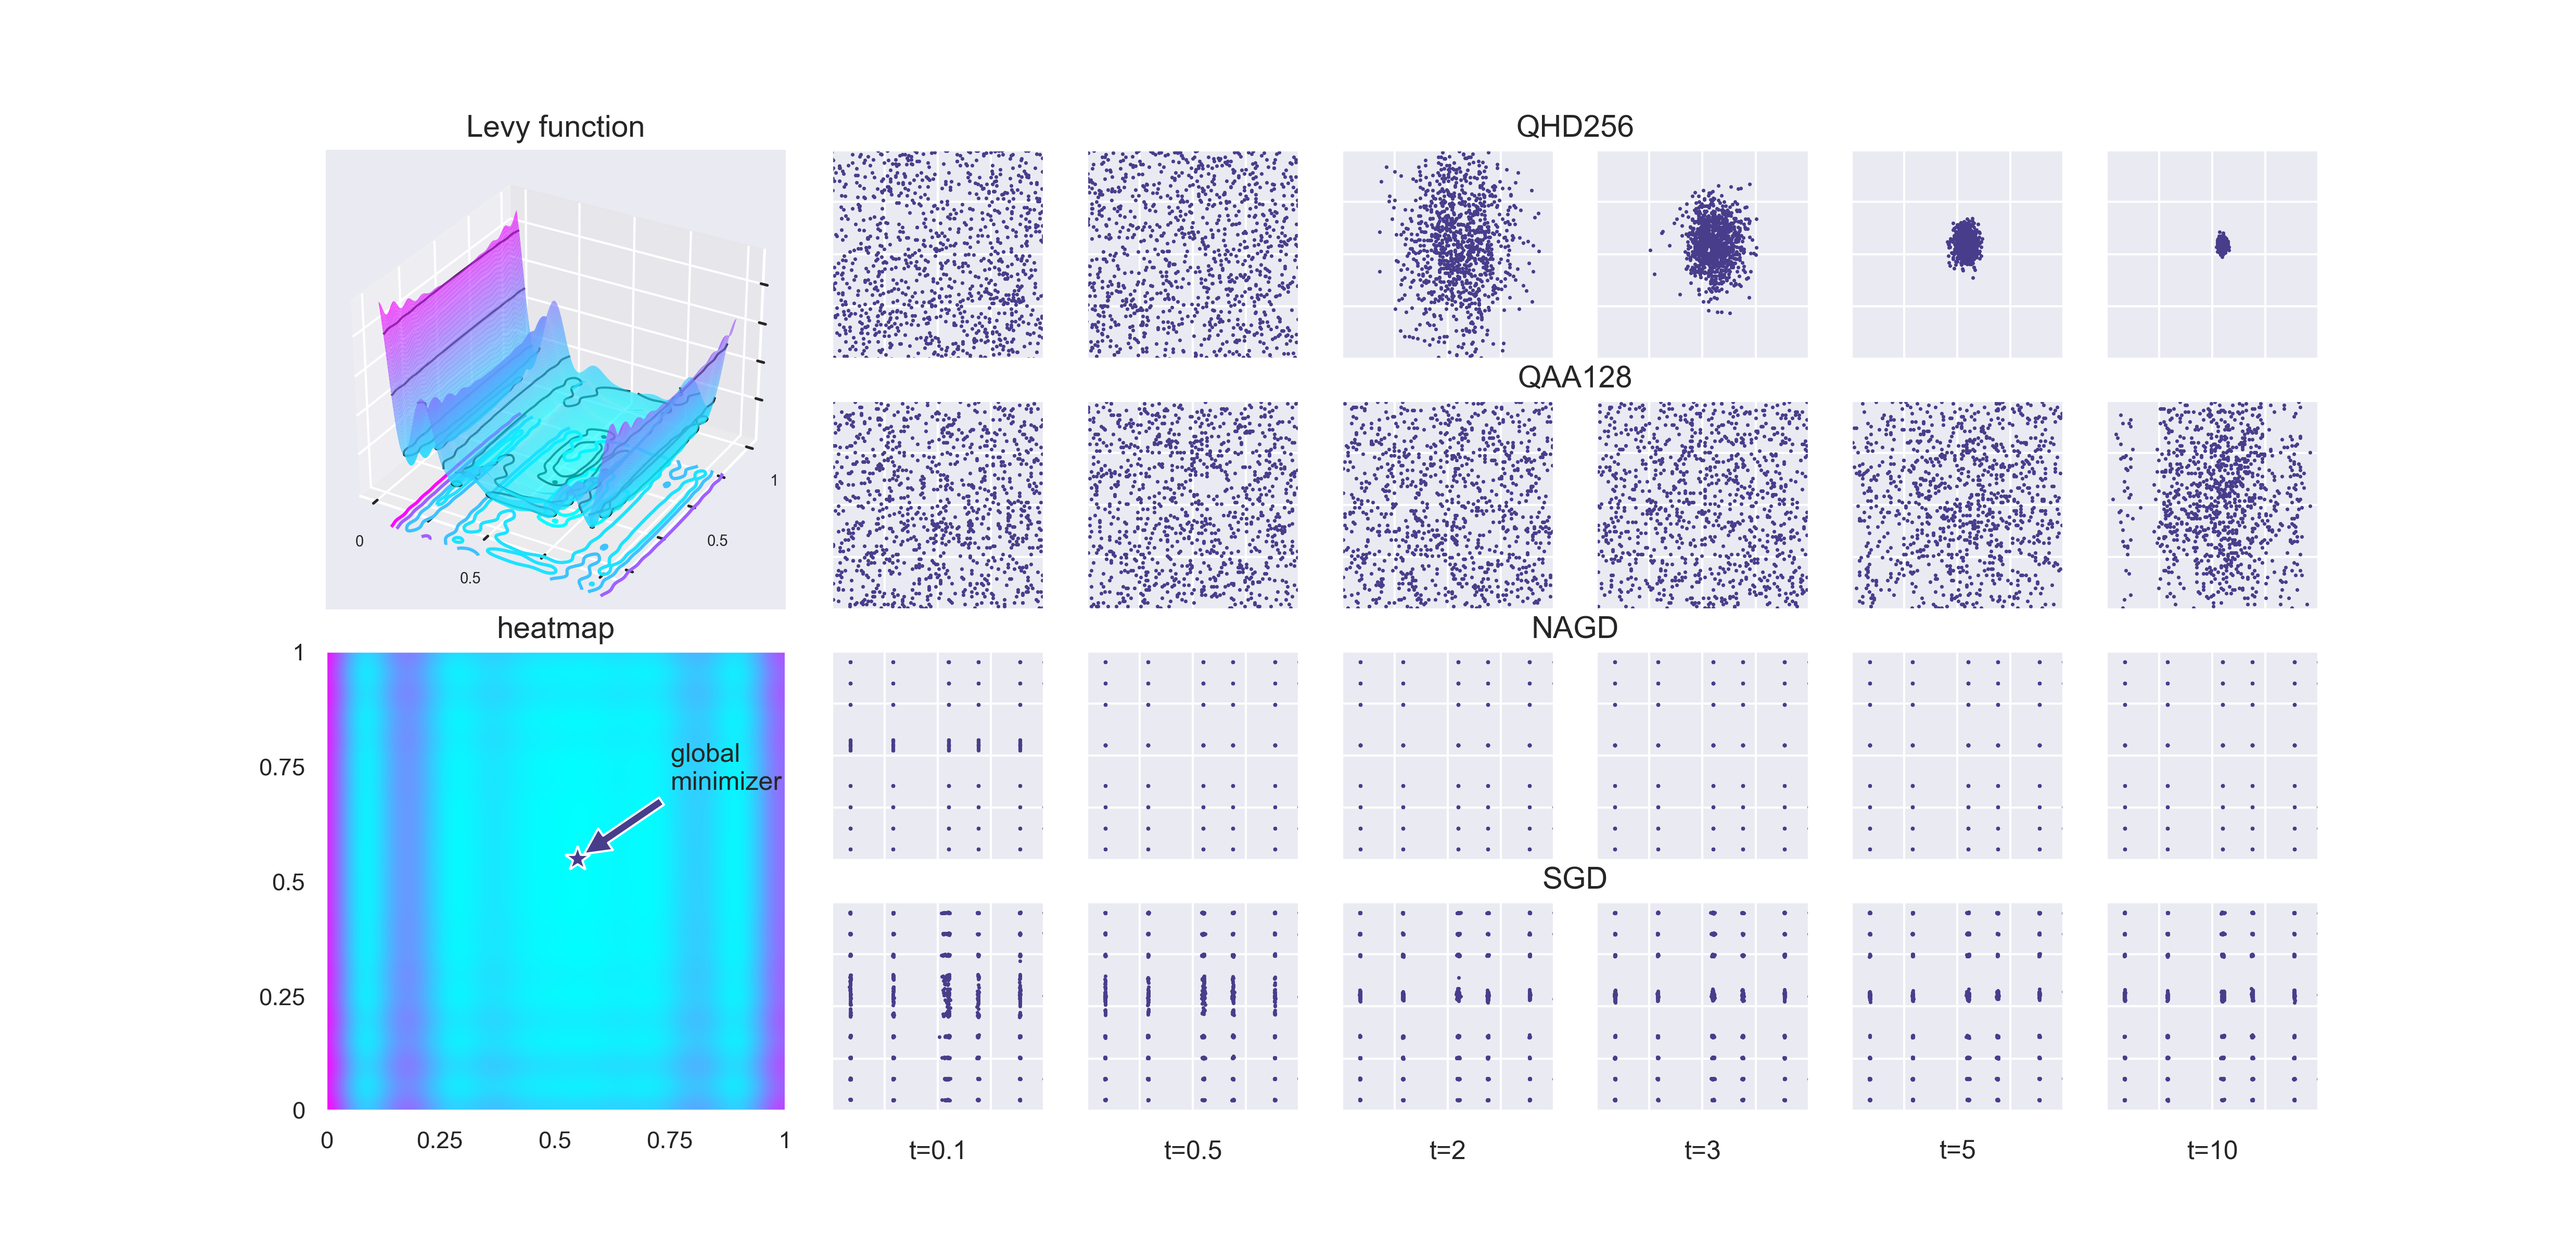
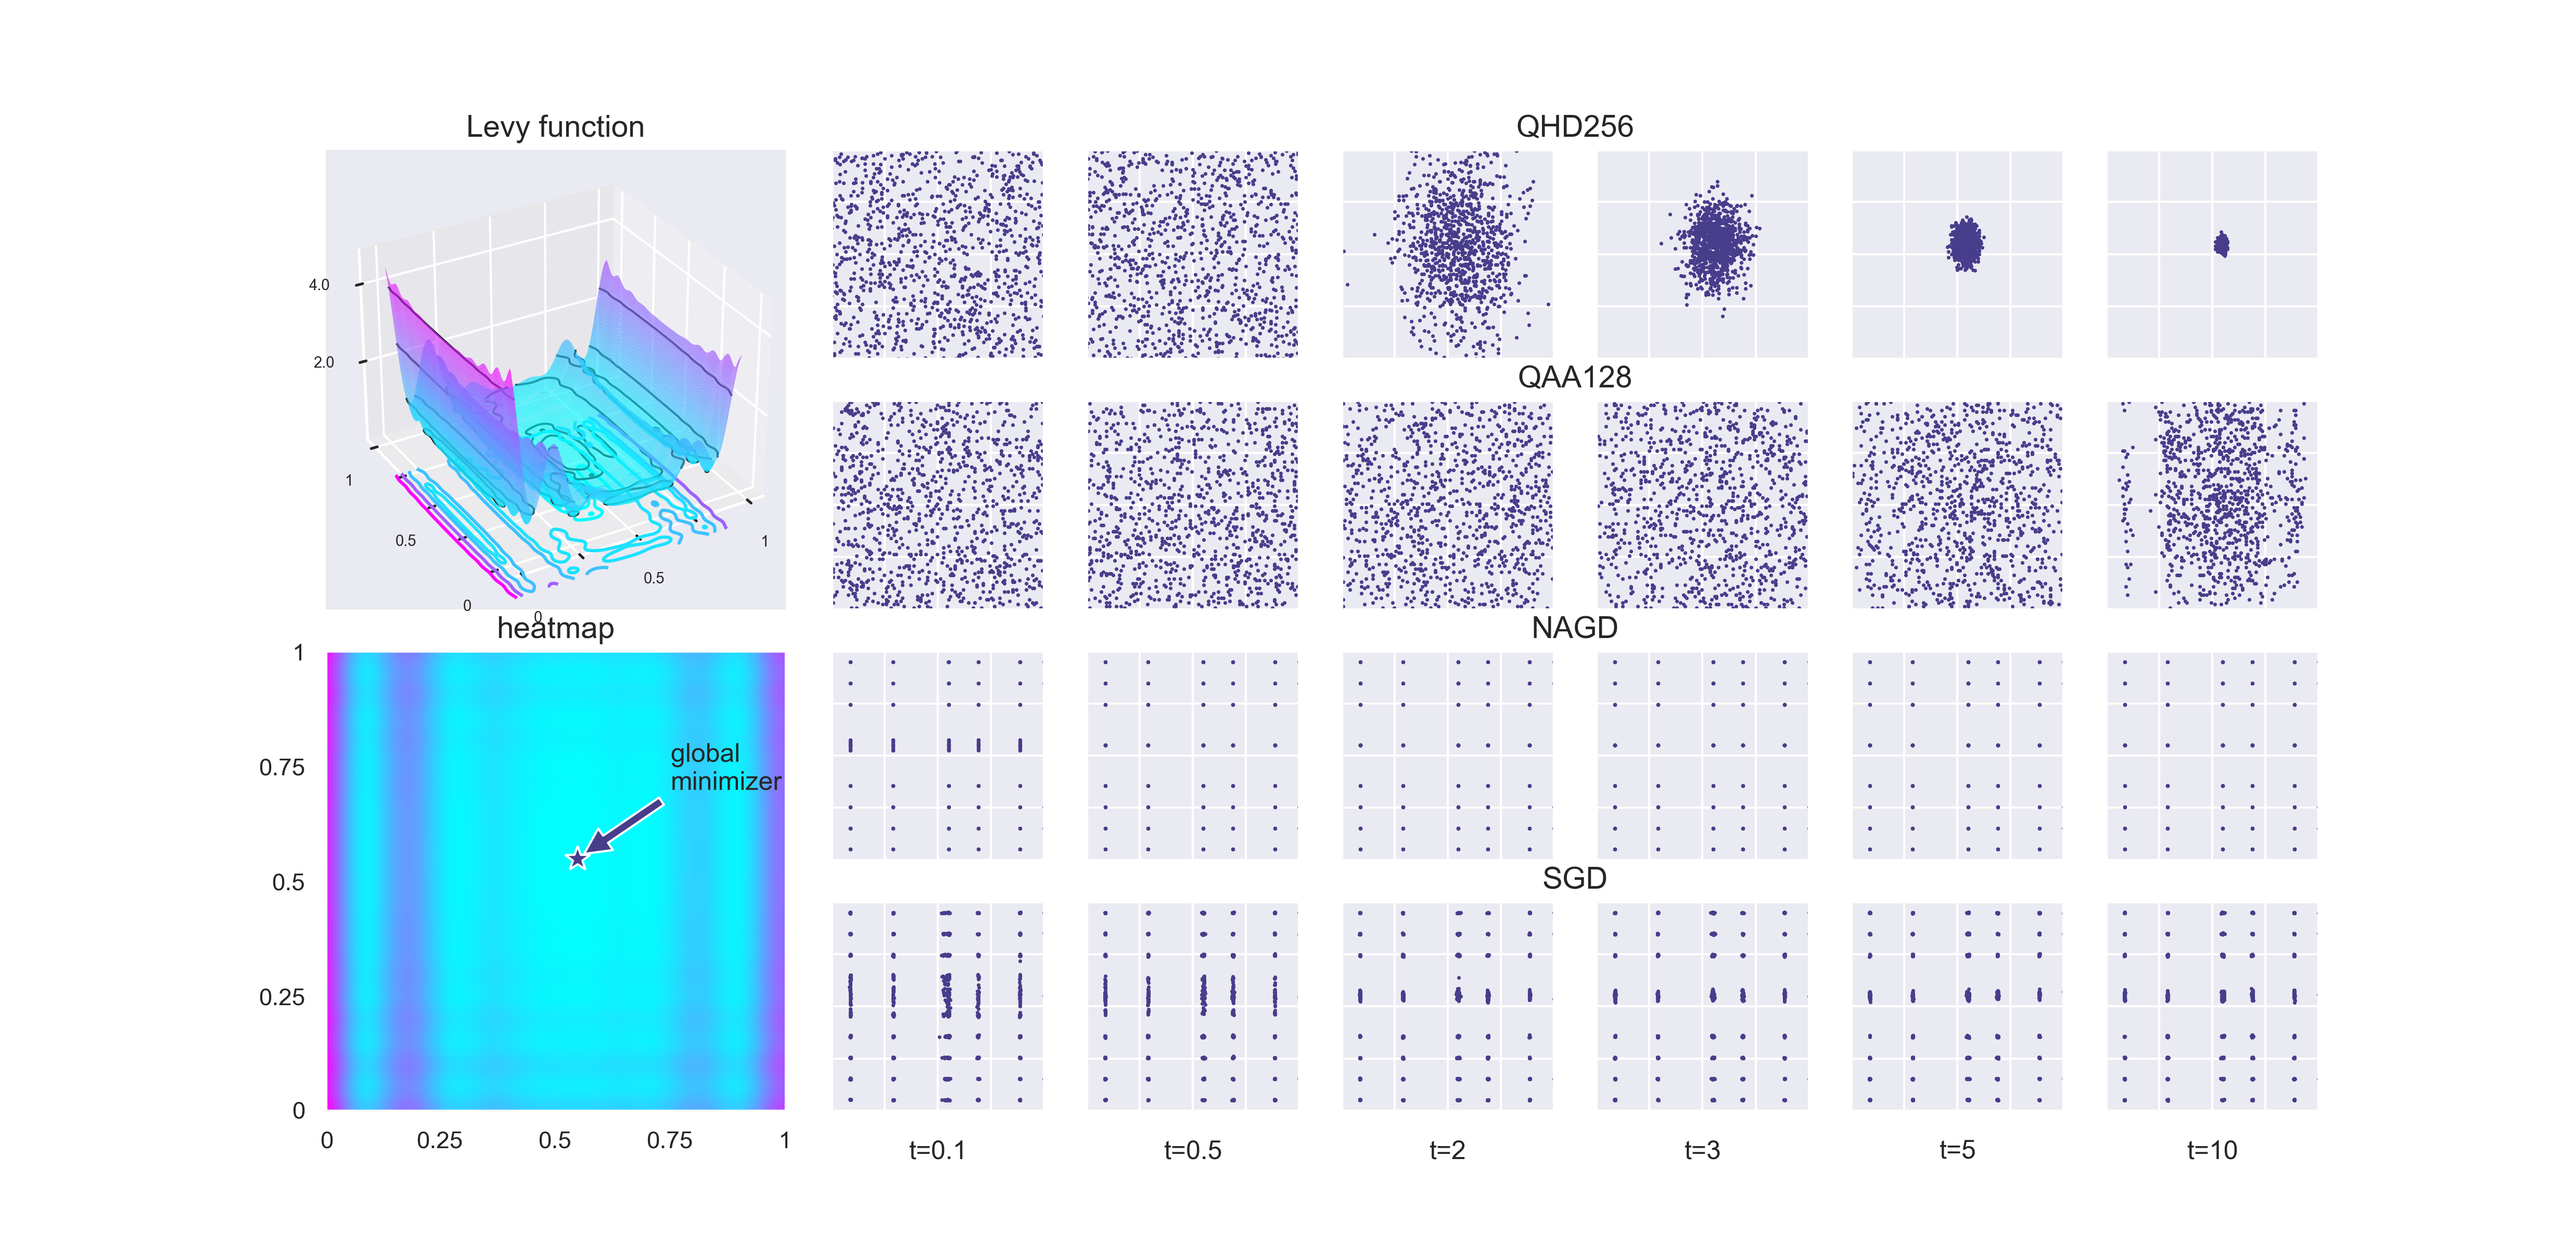
rotate surf camera angle in fig2

diff --git a/plot/fig2/NonCVX2d_evolution.py b/plot/fig2/NonCVX2d_evolution.py
@@ -119,15 +119,18 @@ fig = plt.figure(figsize=(16.5, 8))
 gs = fig.add_gridspec(4, 8)
 
 ax1 = fig.add_subplot(gs[0:2, 0:2], projection='3d')
+ax1.view_init(elev=30, azim=-120)
 ax1.set_title('Levy function', fontsize=TITLE_FONT)
 ax1.plot_surface(XX, YY, V_normalized, rstride=1, cstride=1, alpha=0.75, linewidths=0, cmap=CMAP)
 ax1.contour(XX, YY, V_normalized, [5e-2, 1e-1, 5e-1, 1, 2.5, 4], cmap=CMAP, offset=-1)
 ax1.contour(XX, YY, V_normalized, [5e-2, 1e-1, 5e-1, 1, 2.5, 4], colors='k', linewidths=1)
 ax1.set_xticks([0,0.25,0.5,0.75,1])
-ax1.set_xticklabels(['0','','0.5','',''], fontsize=7)
+ax1.set_xticklabels(['0','','0.5','','1'], fontsize=7)
 ax1.set_yticks([0,0.25,0.5,0.75,1])
-ax1.set_yticklabels(['','','0.5','','1'], fontsize=7)
-ax1.set_zticklabels([])
+ax1.set_yticklabels(['0','','0.5','','1'], fontsize=7)
+ax1.set_zticks([2,4])
+ax1.set_zticklabels(['2.0', '4.0'], fontsize=7)
+#ax1.zaxis.set_major_formatter("{x:.2e}")
 
 ax2 = fig.add_subplot(gs[2:4, 0:2])
 ax2.set_title('heatmap', fontsize=TITLE_FONT)
